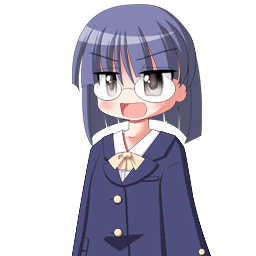
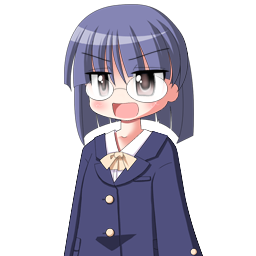
パイロット画像に茜、伊織を追加した。

Changed region(s): [[0.25, 0.0, 0.8438, 1.0]]

diff --git a/public/javascripts/selectPilotScene.js b/public/javascripts/selectPilotScene.js
@@ -51,12 +51,10 @@ function selectPilotScene(spec,my) {
             that.pilotButtonBaseArray[pid].y = 300;
             that.addChild(that.pilotButtonBaseArray[pid]);
 
-            that.miniPilotPictArray[pid] = new Sprite(256,256);
-            that.miniPilotPictArray[pid].image = core.assets[core.PICT_PREFIX + 'kyoko.png'];
-            that.miniPilotPictArray[pid].x = -70 + 100*pid;
-            that.miniPilotPictArray[pid].y = 210;
-            that.miniPilotPictArray[pid].scaleX = 0.3;
-            that.miniPilotPictArray[pid].scaleY = 0.3;
+            that.miniPilotPictArray[pid] = new Sprite(80,80);
+            that.miniPilotPictArray[pid].image = createFaceIcon(core.assets[core.PICT_PREFIX + pilotList[pid].pict]);
+            that.miniPilotPictArray[pid].x = 20 + 100*pid;
+            that.miniPilotPictArray[pid].y = 300;
             that.addChild(that.miniPilotPictArray[pid]);
         }
 
@@ -76,6 +74,14 @@ function selectPilotScene(spec,my) {
 
     that.onPushPrevButton = function(fn){
         emitPushButton = fn;
+    }
+
+    function createFaceIcon(image) {
+        var widthMargin = 64;
+        var size = 128;
+        var faceIcon = new Surface(80,80);
+        faceIcon.draw(image,widthMargin,0,size,size,6,6,68,68);
+        return faceIcon;
     }
 
     return that;

diff --git a/public/javascripts/gameBase.js b/public/javascripts/gameBase.js
@@ -46,6 +46,8 @@ function gameBase(spec,my){
         core.preload(core.PICT_PREFIX+'Landozer.PNG');
         core.preload(core.PICT_PREFIX+'ZeroBraver.PNG');
         core.preload(core.PICT_PREFIX+'kyoko.png');
+        core.preload(core.PICT_PREFIX+'akane.png');
+        core.preload(core.PICT_PREFIX+'iori.png');
         core.preload(core.PICT_ACTIVE_BAR);
         core.preload(core.PICT_ACTIVE_BAR_BACK);
         core.preload(core.PICT_BATTERY_GAUGE);
